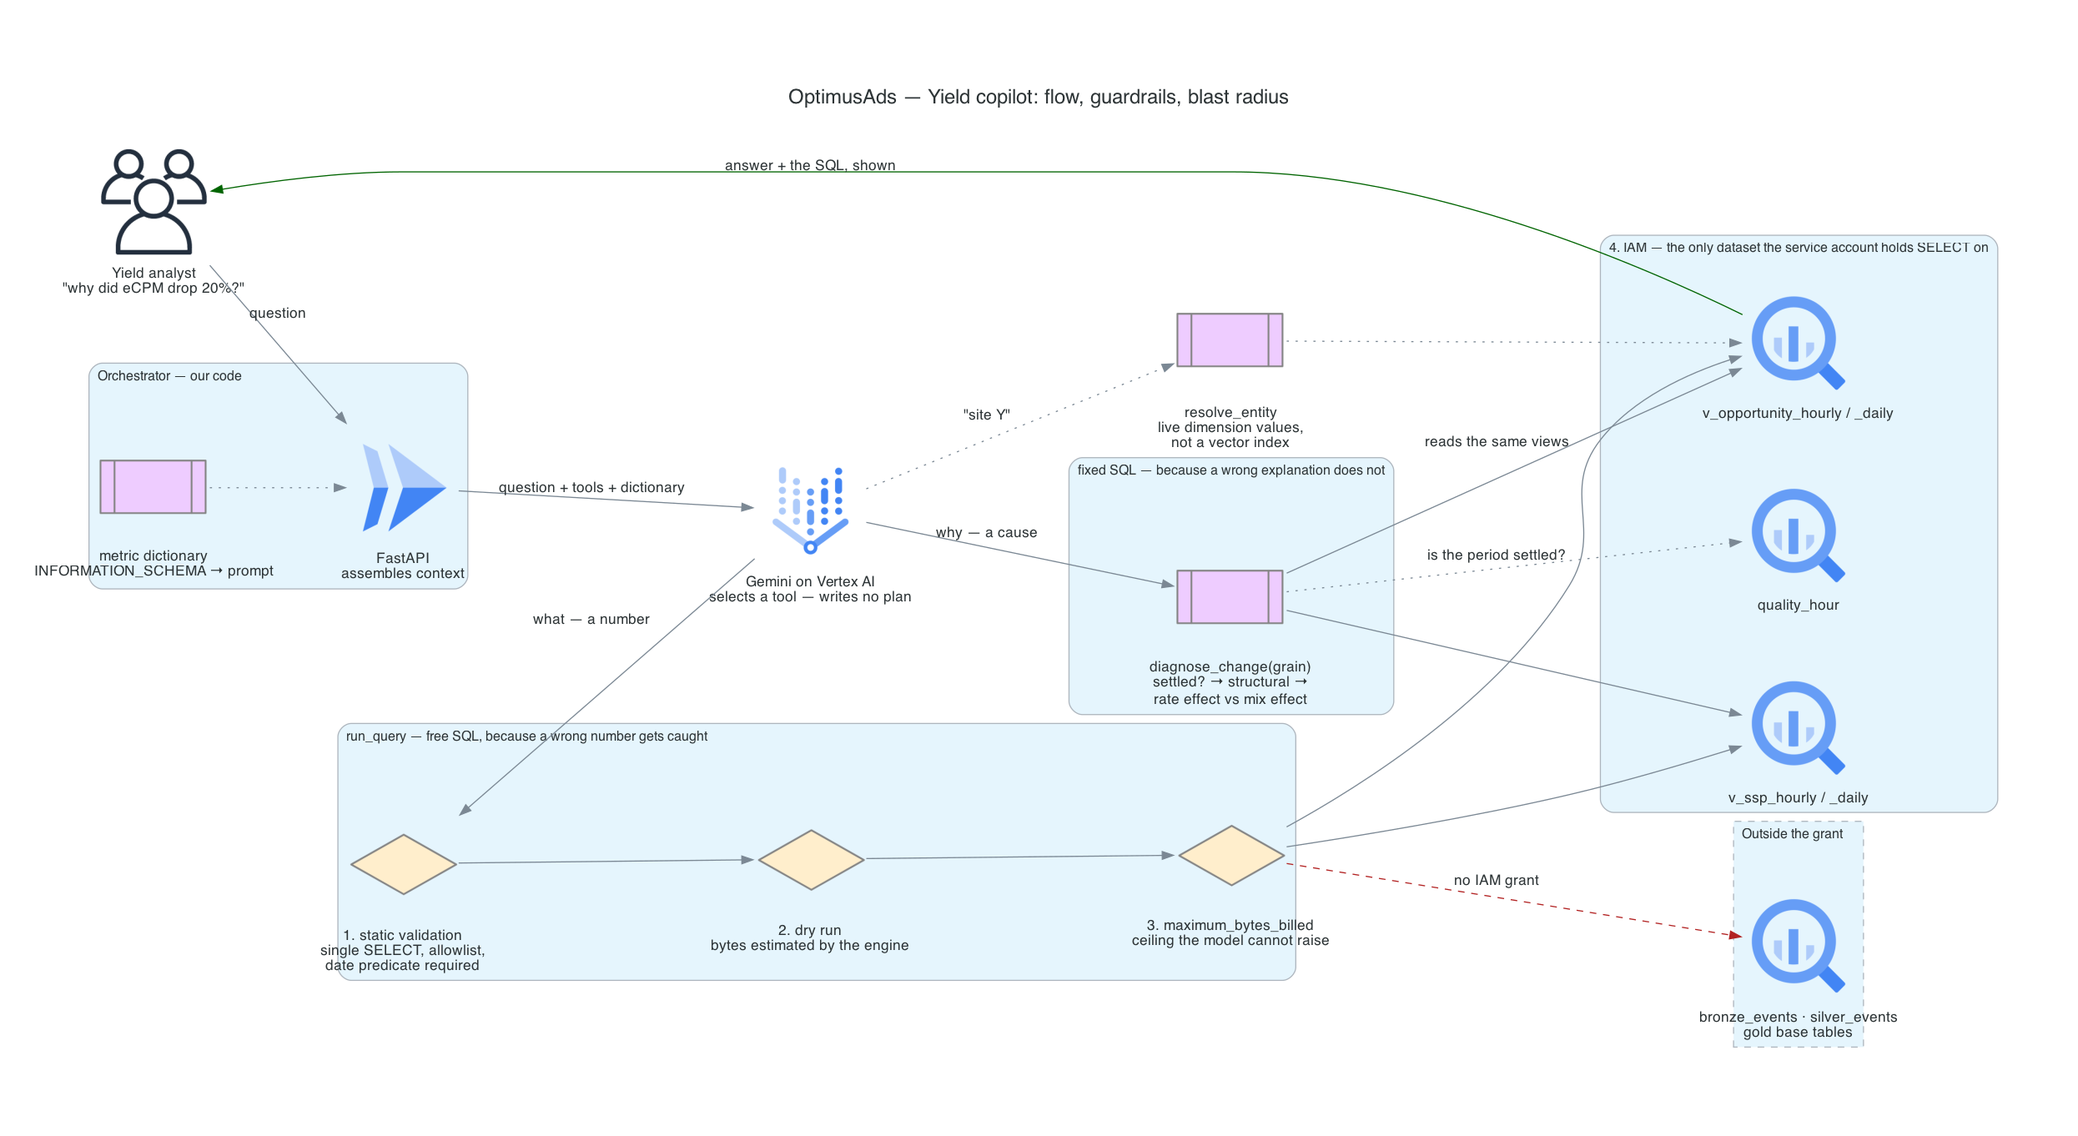
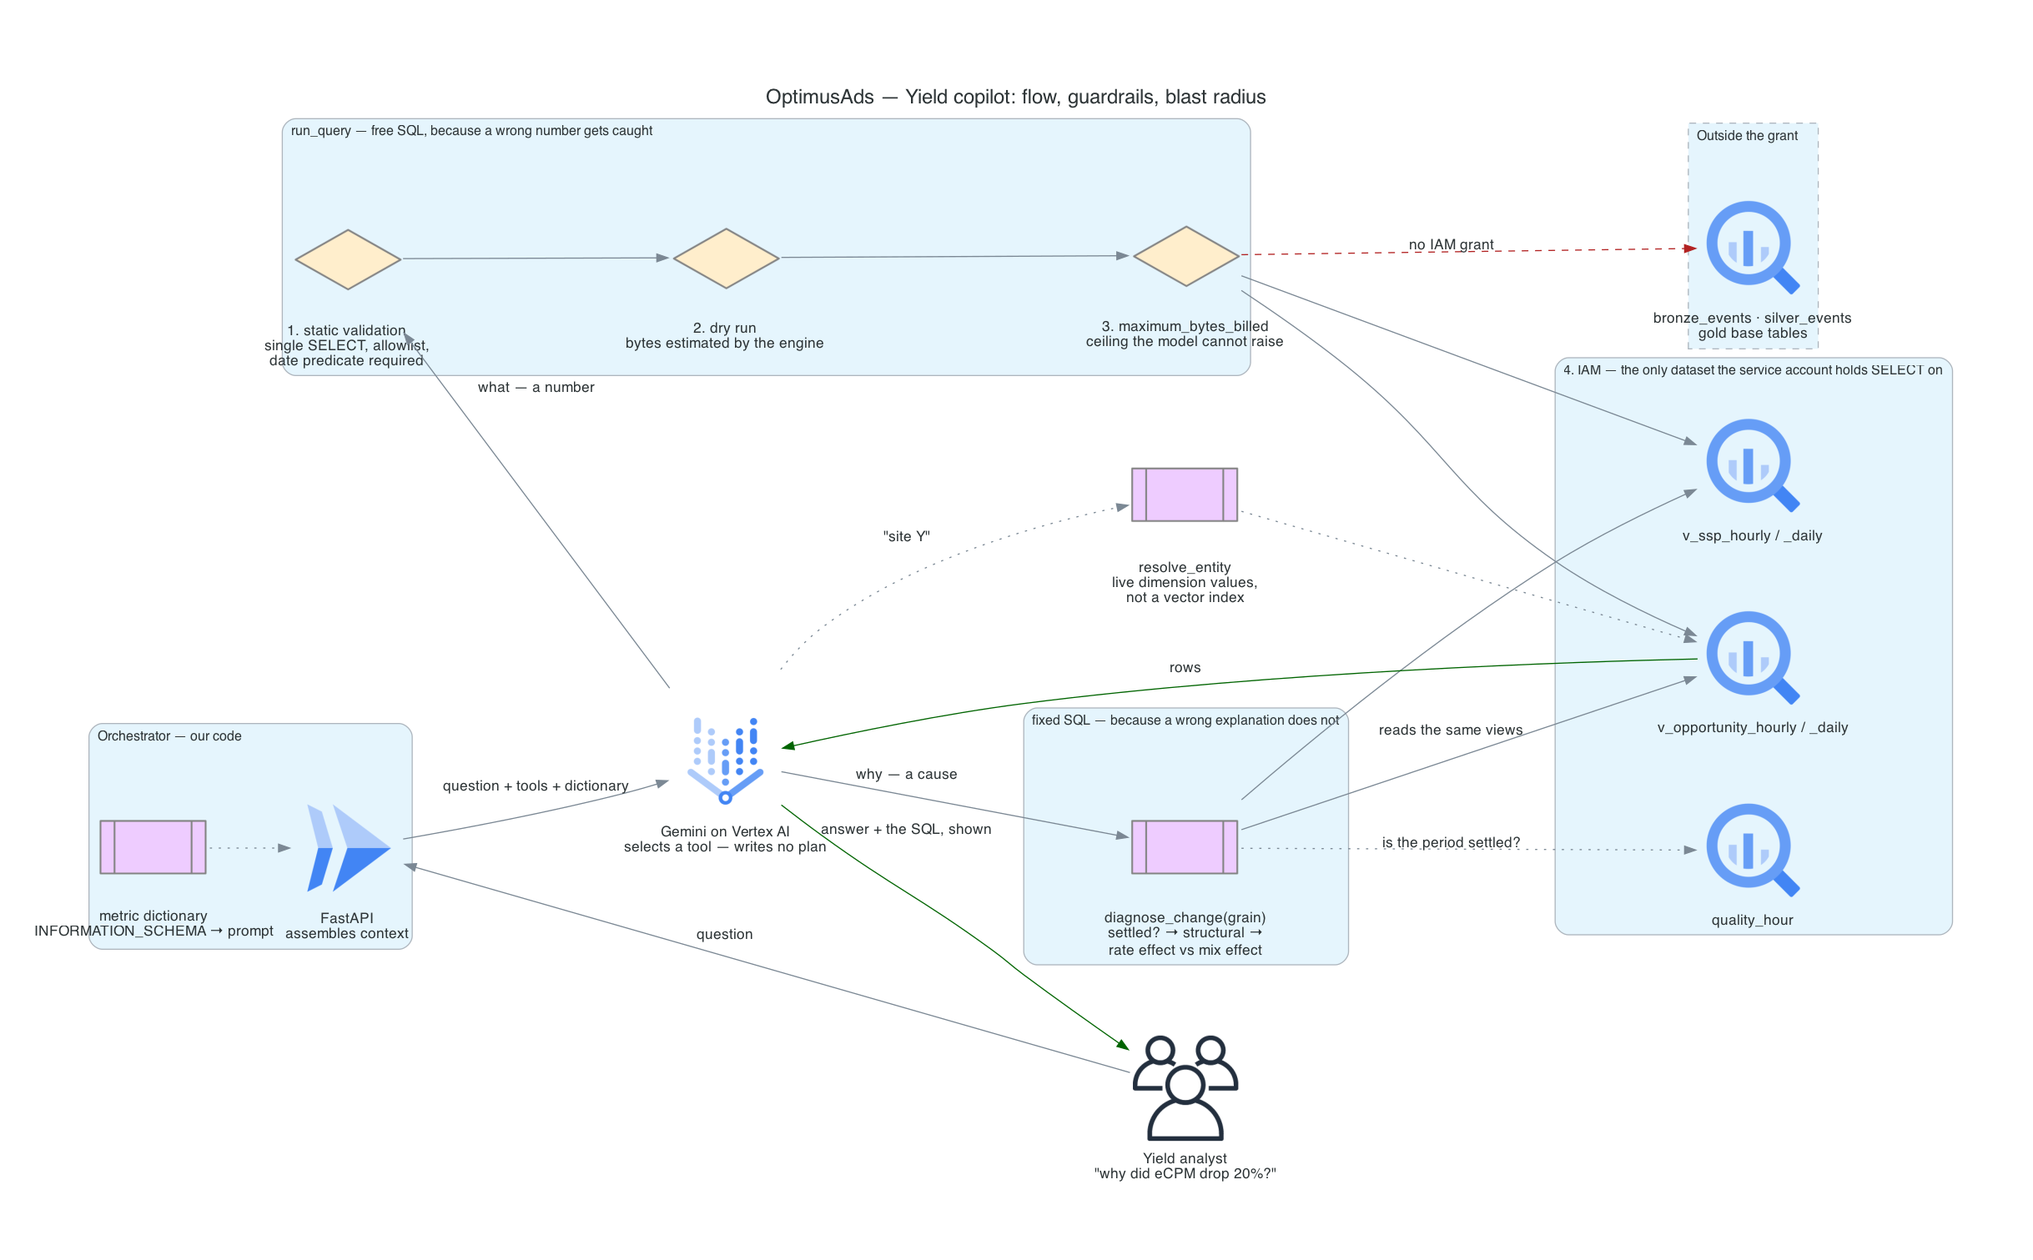
Add Part 2 index and first two agent pages
Part 2 opens with the design in five sentences and routes to one page
per test bullet: question classes (catchability split) and the agent
flow hop by hop. Fix the diagram so rows return through the model
rather than jumping straight to the analyst.

diff --git a/diagrams_src/agent.py b/diagrams_src/agent.py
@@ -83,4 +83,5 @@ with Diagram(
 
     v3 >> DENIED >> raw
 
-    v_opp >> Edge(label="answer + the SQL, shown", color="darkgreen") >> analyst
+    v_opp >> Edge(label="rows", color="darkgreen") >> model
+    model >> Edge(label="answer + the SQL, shown", color="darkgreen") >> analyst

diff --git a/part_2/01-question-classes.md b/part_2/01-question-classes.md
@@ -1,0 +1,94 @@
+# 1.1 — Copilot Scope & Question Classes
+
+*Test bullet: we want to deploy a copilot capable of answering business questions such as: "Why did the eCPM of publisher X drop by 20% yesterday on the video format?"*
+
+**One agent, four tools, our code.** It reads Gold only, and which tool it takes is decided by a property of the question, not its topic: **free-form SQL where a wrong answer gets caught, fixed SQL where it does not.**
+
+| Tool | What it does |
+|---|---|
+| `run_query(sql)` | Model-generated SQL against the semantic-layer views only, behind a validator, a dry run and a byte ceiling |
+| `diagnose_change(metric, filters, grain, period, comparison)` | A fixed, pre-written decomposition: check both periods are settled, split the change into rate and mix effect one dimension at a time, attribute it |
+| `resolve_entity(name)` | Fuzzy lookup of a spoken name ("site Y") against live dimension values, returning `publisher_id` / `ad_unit_id` |
+| `check_quality(grain, period)` | The pipeline's published verdict on a period, read before any answer about it |
+
+## Catchability, and the rule it produces
+
+One question decides it: *can the person receiving the answer catch it when it is wrong?* **Catchability is a property of the question type, not the person.**
+
+| Question type | Example | Can the analyst catch a wrong answer? | Handled by |
+|---|---|---|---|
+| **What** — a number, a ranking, a trend | *"What did publisher X make yesterday?"* | **Yes.** A wrong number looks wrong to someone who sees it daily | `run_query` — the model writes it |
+| **Why** — a cause, an attribution | *"Why did their eCPM drop 20% on video?"* | **No.** There is nothing to compare an explanation against | `diagnose_change` — we wrote the SQL |
+
+**An explanation cannot be sanity-checked.** *"SSP 3 reduced bidding on mobile video"* is specific, plausible, and unverifiable without doing the analysis the analyst delegated — and its specificity makes it *more* convincing, not less.
+
+**And the uncatchable answer is the one people act on.** Nobody changes a floor price because revenue was €12,400; they change it because they believe SSP 3 pulled back. The class with no verification has the largest blast radius.
+
+*Give the model freedom precisely where a wrong answer gets caught, and remove it precisely where it does not.*
+
+## One generated query cannot answer the test's example
+
+The case against pure text-to-SQL is not security; the guardrails of section 3 close that. It is that **the test's own example is an investigation**: the delta against D-1, a breakdown by four dimensions, a ranking, and a call on which one matters. Four or five queries and a judgement.
+
+A text-to-SQL agent writes one query, gets one number, and narrates a cause — **but nothing in the result set told it the cause.** It infers from how ad tech usually behaves and presents that as a finding: the failure mode nobody catches, on the exact question the test asked.
+
+## Nor does a routine library
+
+Routines only answer questions someone anticipated. *"Which ad units on mobile lost fill rate after we dropped SSP X"* is a shape nobody scripted and exactly what a Yield analyst asks on a Tuesday — every new shape becomes a ticket. And it answers around the named deliverable, a Text-to-SQL + RAG pattern. **One routine, not a library.**
+
+## The routing objection
+
+*"Is this a what or a why?"* is itself a model judgement, exposed to the same drift. **Misrouting degrades an answer; it does not falsify one** — a *why* sent to `run_query` returns one number and a visible under-answer, not a confident wrong cause. **And the routing is enforced by the API, not asked for in the prompt:** `tool_config.function_calling_config.mode = ANY` with `allowed_function_names` — the section Google's docs title *"Forced function calling"* — constrains the model to a named subset, so a turn narrowed to `diagnose_change` cannot come back as free SQL. *A prompt asks; `mode = ANY` refuses the alternative.*
+
+**What it does not constrain is argument values** — schema adherence, not semantics; a wrong `metric` gives a visibly wrong headline.
+
+## The test's example, end to end
+
+```
+diagnose_change("ecpm", {publisher_id: "X", format: "video"}, "day", "2026-08-22", "prior_period")
+```
+
+The model chose those arguments and writes none of the SQL that runs next.
+
+**1 — Quality gate.** `check_quality` on both periods; if either is unsettled or incomplete the routine says so and stops. First, because it is the likeliest explanation of a sudden drop and the only one not in the data.
+
+**2 — Structural factorisation, where the metric has one.** `fill_rate = bid_rate × clear_rate × render_rate` is an identity, so a fill-rate drop resolves to *nobody bid* / *bids did not clear* / *wins did not render* before any dimension is touched — three findings for three teams. `ecpm` has no factorisation and goes to step 3.
+
+**3 — Rate effect against mix effect.** A ratio moves for two structurally different reasons — rate and mix. *"Desktop eCPM fell"* and *"traffic moved to mobile"* have different fixes, and a ranking by metric change cannot tell them apart. For `m = Σᵢ wᵢ·rᵢ`, with `wᵢ` segment *i*'s denominator share and `rᵢ` its rate:
+
+```
+m₁ - m₀  =  Σᵢ w₁ᵢ·(r₁ᵢ - r₀ᵢ)     ← rate effect
+         +  Σᵢ r₀ᵢ·(w₁ᵢ - w₀ᵢ)     ← mix effect
+```
+
+**Exact.** The contributions sum to the total change, so this is an attribution and not a ranking, with no residual to hand-wave. It runs **one dimension at a time, never a cross product** — `ssp_id`, `ad_unit_id`, `device`, `channel`, in `v_ssp_*` and `v_opportunity_*` — and reports the one whose top contributors explain the most of the change.
+
+**4 — Materiality floor.** A segment with 200 impressions can show a 300% eCPM swing and top the ranking. Segments below 1% of the period's denominator are **collapsed into `other`**, not dropped — so the contributions still sum to the total.
+
+**The model receives a structured result — quality verdict, baseline used, headline, the factorisation, per-segment rate and mix — and writes the sentence. It chose what to investigate and invented no part of how.**
+
+## The honest limit
+
+**This localises a change; it does not explain it.** *"SSP 3 on video accounts for 78% of the drop, all of it rate effect"* says where the money went, not why SSP 3 changed its bidding — which lives in that SSP's systems. *A locus is checkable; a story is not.*
+
+> *"Publisher X's eCPM dropped 20% yesterday — why?"* The copilot checks the quality table before decomposing anything, and yesterday is flagged partial: three evening hours never arrived. There is no drop to explain. Had it skipped that step, the breakdown would have run happily and blamed whichever SSP is busiest in the evening — specific, fluent, entirely wrong.
+
+**Cost.** One invocation is four independent single-dimension passes over the Gold-grain semantic views for two periods — never a cross product, so work grows with the number of dimensions, not their product. Each pass reads one publisher's slice of two partitions.
+
+## Rejected — one line each
+
+| Option | Why not |
+|---|---|
+| **Pure text-to-SQL** | One query cannot support a causal claim; the model fills the gap with prose |
+| **Pure routine library** | Only answers anticipated shapes; every new question is a ticket |
+| **Let the model choose the dimensions** | The one judgement not checkable from the output, on the class not checkable at all |
+| **Cross-product of all dimensions** | Thousands of slices, most too small to mean anything |
+| **Recursive drill-down** | Unbounded runtime and cost, for slices the materiality floor discards anyway |
+| **Rank segments by their metric change** | Cannot distinguish rate from mix; the two have different fixes |
+| **A significance test per segment** | 2B events/day makes almost everything significant; materiality is what matters |
+| **A separate hourly routine** | Identical arithmetic at both grains — two copies, one drift |
+| **Conversational Analytics API** | No documented mechanism forces a *why* to the fixed routine. Argued in 1.2 |
+
+---
+
+Next: [**1.2 — User → Orchestrator → Model → BigQuery**](/part_2/02-agent-flow.md)

diff --git a/part_2/02-agent-flow.md b/part_2/02-agent-flow.md
@@ -1,0 +1,74 @@
+# 1.2 — User → Orchestrator → Model → BigQuery
+
+*Test bullet: detail the flow between the user, the orchestrator (e.g., LangChain or FastAPI), the model (Vertex AI / Gemini), and the BigQuery database (Text-to-SQL + RAG pattern).*
+
+![OptimusAds — Yield copilot: flow, guardrails, blast radius](../assets/agent.png)
+
+## The flow, hop by hop
+
+One stateless `POST` per question, and a loop that runs at most twice: the model names a tool, our code executes it, the result goes back, the model narrates. **Everything the model produces passes through code we own before it reaches BigQuery.**
+
+| # | Hop | Mechanism | Latency |
+|---|---|---|---|
+| 1 | Analyst → FastAPI on Cloud Run | One `POST` per question, stateless — no session store, no state to invalidate | — |
+| 2 | FastAPI assembles context | The metric dictionary, generated from `INFORMATION_SCHEMA` and injected whole, plus four `FunctionDeclaration`s and a `tool_config` | ms |
+| 3 | FastAPI → Gemini on Vertex AI | `client.models.generate_content(model=…, contents=…, config=GenerateContentConfig(tools=[…], tool_config=…))` | ~1–2 s |
+| 4 | Gemini → tool call | A name and arguments on `response.function_calls` — the model chooses *what* to ask, and writes no SQL on three of the four tools | — |
+| 5 | Validator | `run_query` only: parse, single `SELECT`, allowlist, mandatory date predicate — our code, ahead of the client | ms |
+| 6 | Dry run | `run_query` only: bytes-to-be-scanned returned by the engine without executing | < 1 s |
+| 7 | Execute against the semantic views | The job carries `maximum_bytes_billed`; the service account holds `SELECT` on the semantic-layer dataset alone | 1–3 s |
+| 8 | Result → model | `Part.from_function_response(...)` appended to `contents`; the loop returns to hop 3 | ms |
+| 9 | Narration → analyst | Prose, with the executed SQL and the rows it returned beside it | ~1–2 s |
+
+## Orchestrator — the choice the test's wording hides
+
+The test offers *"LangChain or FastAPI"*. Those are not alternatives: LangChain is a framework, FastAPI is the HTTP layer. **The real choice is LangChain inside FastAPI against our own loop inside FastAPI** — that loop is hops 3 to 8, about fifty lines against one provider.
+
+LangChain v1 shipped 2025-10-22 and `create_agent` runs on the LangGraph runtime; its `wrap_tool_call` middleware receives a tool call *before* execution, and returning a `ToolMessage` without invoking `handler` rejects it. **So LangChain can hold the guardrail seam**; claiming otherwise is a strawman.
+
+**The objection is a dependency one.** We own the seam either way; one of the two ways is a framework whose agent entry point moved packages inside a year — `AgentExecutor` now ships in a separate `langchain-classic` package, `create_agent` is the supported path. This is the same argument that rejects Dataflow, Composer, dbt Core and Cube: *a runtime we operate, placed between us and something we could call directly.*
+
+## The model call, concretely
+
+The SDK is the **Google Gen AI SDK** (`google-genai`) — `genai.Client(vertexai=True, project=…, location=…)`. Not the Vertex AI SDK: `vertexai.generative_models` was deprecated 2025-06-24 and **removed 2026-06-24** — and Google's own *"Forced function calling"* sample still uses the removed API, so a live Google sample copied today ships dead code.
+
+Pass Python callables to the SDK and it enables *automatic function calling*: the SDK executes the function itself, up to `maximum_remote_calls` (default 10) — nowhere to put hops 5 to 7. So tools are declared as `FunctionDeclaration`s and `automatic_function_calling=AutomaticFunctionCallingConfig(disable=True)` is set explicitly. **That one flag is the difference between a guarded executor and a model calling BigQuery directly.**
+
+Parallel function calling — several calls in one turn, no documented flag to disable it — means every call is answered before hop 3 runs again.
+
+**No model ID is pinned:** Flash tier, function calling, a 12-month availability class. IDs churn — `gemini-2.5-flash` retires 2026-10-20. (Vertex AI is now the Gemini Enterprise Agent Platform, renamed at Cloud Next '26; the endpoint and the `vertexai=True` flag are unchanged.)
+
+## Text-to-SQL + RAG, located in the flow
+
+**Text-to-SQL is hop 4 into hops 5 to 7.** `run_query` carries the only model-written SQL, and the only objects it may name are the semantic views — enforced by the allowlist at hop 5 and the grant at hop 7.
+
+**RAG is two mechanisms here, not one.** The metric dictionary is retrieved at hop 2 from `INFORMATION_SCHEMA` and injected whole, because it fits. Entity names are resolved by `resolve_entity` against live dimension values in Gold — a tool call, not an index. Its SQL is ours, so hops 5 and 6 do not apply to it. Section 2.2 argues why neither is a vector store.
+
+**The four guardrail layers sit at hops 5 to 7** — static validation, dry run, `maximum_bytes_billed`, IAM — argued in section 3.
+
+**Cost.** BigQuery bytes dominate per question, not tokens, and the ceiling at hop 7 bounds the worst case, not the average. Context caching is not a lever: the minimum cacheable prefix for the Gemini 3 family is 4,096 tokens, below which the dictionary block sits.
+
+## Build vs buy — the Conversational Analytics API
+
+Google's Conversational Analytics API went **GA for BigQuery on 2026-06-23** and now carries most of this page: `big_query_max_billed_bytes`, IAM scoping, audit logging, a Knowledge Catalog glossary with synonyms, the generated SQL and reasoning steps shown, custom BigQuery routines registered as `user_functions.bqRoutines`, and semantically matched example queries. That closes most of the gap; two things survive.
+
+**Nothing makes the routine mandatory.** The docs say a registered routine is used *"if they're needed"* and that a matched example query *"might"* be executed; our loop's `mode = ANY` with `allowed_function_names` (1.1) removes the choice. No mechanism for forcing it is documented, and every steering primitive the docs describe is advisory. Removing model choice on the uncatchable question class is the design; an agent product sells the opposite.
+
+**Table selection is documented as not being a security control.** Verbatim: *"Table selection isn't a security setting. Even if you specify that the data source can only pull information from certain tables — like table1 and table2 — the system might still return data from an unintended table (table3) if the user running the query has general permissions."* The test asks how a hallucination is stopped from reading terabytes of raw data. The product documents that its scoping does not answer that; hop 7's service account does.
+
+Buying wins for an organisation already on Looker, or without an engineer to own a prompt-and-validator stack. Not here — they are hiring the engineer.
+
+## Rejected — one line each
+
+| Option | Why not |
+|---|---|
+| **LangChain v1 / LangGraph** | `wrap_tool_call` can hold the seam, so this is a dependency argument, not a capability one: a framework over a fifty-line loop |
+| **Vertex AI Agent Runtime** (ex Agent Engine) | Managed hosting, sessions and memory for a stateless single-turn call with four tools; also pins the service to Python |
+| **Google ADK** | The same objection one layer closer to Google: a framework above a call we make in one line |
+| **Conversational Analytics API** | GA and genuinely close. Loses on the two documented facts above |
+| **Looker + LookML** | A BI platform bought to obtain a semantic layer, for ten users and a handful of views |
+| **Streaming model tokens to the user** | The answer is checkable only once the SQL and numbers arrive with it; a streamed narration is read before either exists |
+
+---
+
+Next: [**2.1 — Semantic Layer**](/part_2/03-semantic-layer.md)

diff --git a/part2-llm-agent.md b/part2-llm-agent.md
@@ -1,3 +1,30 @@
 # Part 2 — LLM Agent Integration (Yield Optimization)
 
-_TODO_
+**A copilot for ten Yield analysts, over the Gold layer of the Part 1 pipeline.**
+
+![OptimusAds — Yield copilot: flow, guardrails, blast radius](assets/agent.png)
+
+## The design in five sentences
+
+**One agent, four tools, our code** — a FastAPI loop on Cloud Run, Gemini called through the Google Gen AI SDK, and BigQuery views as the only objects any generated SQL may name.
+
+The split that produces everything else is not *what the question is about* but **whether a wrong answer can be caught by the person receiving it**: a number can be checked against a dashboard, an explanation cannot be checked against anything.
+
+So the model writes SQL for *what* questions and writes none of it for *why* questions — **`diagnose_change` is a fixed decomposition, and the model chooses only what to point it at.**
+
+**Trustworthiness is a property of the pipeline, not of the prompt**: the copilot reads `is_settled` and the quality table rather than judging its own input, because judging whether its input is complete is the thing an LLM is least able to do.
+
+**No component sits between us and something we could call directly** — no LangChain, no vector database, no agent runtime — which is the same sentence that removed Dataflow, Composer, dbt Core and Cube from Part 1.
+
+## Where to go deeper
+
+One page per bullet of the test, in the test's order. Each page stands alone and ends with the options it rejected, one line each.
+
+| Page | The claim it defends |
+|---|---|
+| [**1.1 — Copilot Scope & Question Classes**](/part_2/01-question-classes.md) | Catchability is a property of the question, not the person — and the uncatchable answer is the one people act on |
+| [**1.2 — User → Orchestrator → Model → BigQuery**](/part_2/02-agent-flow.md) | The flow hop by hop, and the one config field that separates a guarded executor from a model calling BigQuery directly |
+
+---
+
+Next: [**1.1 — Copilot Scope & Question Classes**](/part_2/01-question-classes.md)

diff --git a/_sidebar.md b/_sidebar.md
@@ -13,3 +13,6 @@
     - [2.2 Bronze Partitioning & Clustering](/part_1/05-bronze-partitioning.md)
     - [2.3 Deduplication, Bronze → Silver](/part_1/06-dedup-sql.md)
 - [Part 2 — LLM Agent](/part2-llm-agent.md)
+  - AI Agent Architecture
+    - [1.1 Copilot Scope & Question Classes](/part_2/01-question-classes.md)
+    - [1.2 User → Orchestrator → Model → BigQuery](/part_2/02-agent-flow.md)
